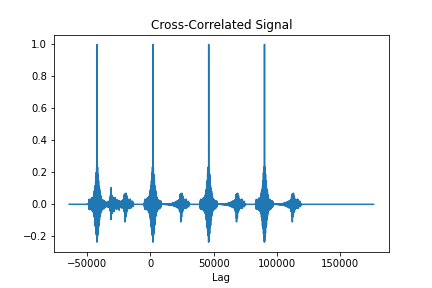
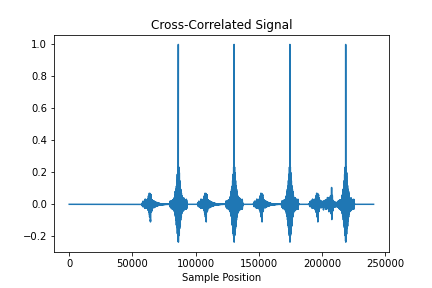
change direction, remove lag

diff --git a/assignment01/Q1.py b/assignment01/Q1.py
@@ -37,14 +37,13 @@ def loadSoundFile(filename):
 def main():
     snare_rate, snare_data = loadSoundFile("snare.wav")
     drum_rate, drum_loop = loadSoundFile("drum_loop.wav")
-    corr = crossCorr(snare_data, drum_loop)
-    lags = correlation_lags(len(drum_loop), len(snare_data))
+    corr = crossCorr(drum_loop, snare_data)
 
     # Plot figure
     fig = plt.figure()
     ax = fig.add_subplot(1,1,1)
-    ax.plot(lags, corr)
+    ax.plot(corr)
     ax.set_title("Cross-Correlated Signal")
-    ax.set_xlabel("Lag")
+    ax.set_xlabel("Sample Position")
     plt.savefig("results/01-correlation.png", format = "png")
     

diff --git a/assignment01/Q2.py b/assignment01/Q2.py
@@ -5,7 +5,7 @@ import matplotlib.pyplot as plt
 def findSnarePosition(snareFilename, drumloopFilename):
     snare_rate, snare_data = loadSoundFile(snareFilename)
     drum_rate, drum_loop = loadSoundFile(drumloopFilename)
-    corr = crossCorr(snare_data, drum_loop)
+    corr = crossCorr(drum_loop, snare_data)
     peaks, properties = find_peaks(corr, height = 0.75)
     return list(peaks)
 
